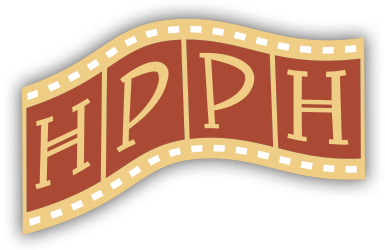
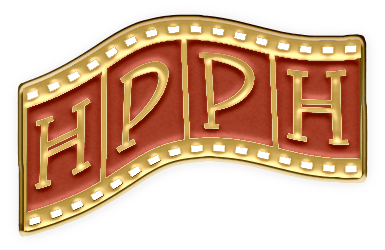
new pin badge

diff --git a/src/App.vue b/src/App.vue
@@ -406,7 +406,7 @@ function decreaseStrandIndex() {
     <div
       class="xxx-md:flex-row xxx-md:text-left container px-4 max-w-4xl text-center py-24 flex flex-col items-center gap-8"
     >
-      <img src="/images/pin-badge.png" alt="" class="w-48 mx-auto" />
+      <img src="/images/pin-badge.png" alt="" class="w-32 h-auto mx-auto" />
       <div class="flex-1">
         <h2 class="type-h4 mb-4">
           A special gift for your favourite film lover.
